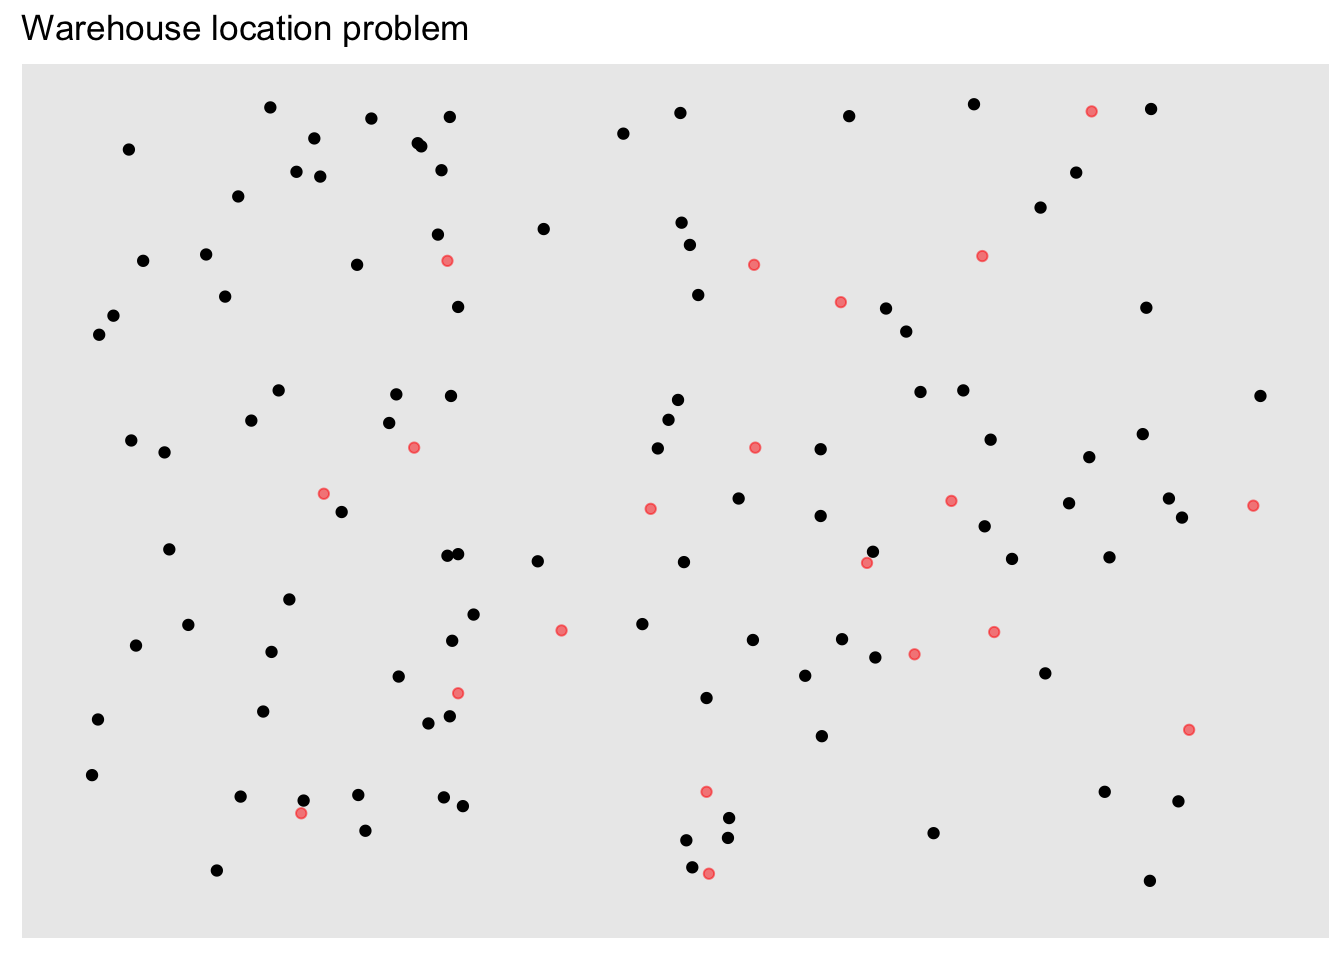
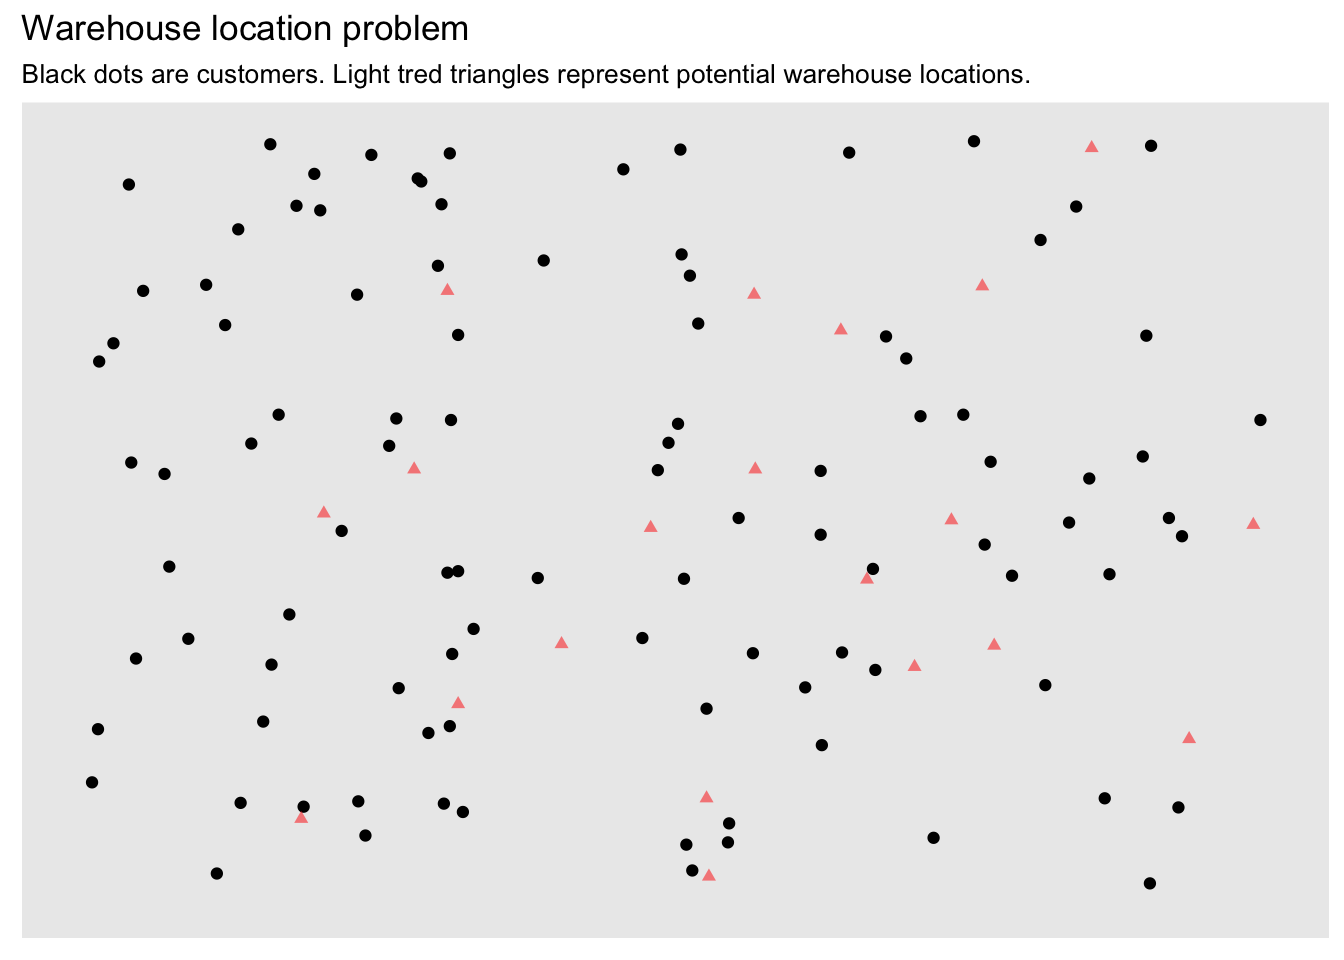
Update warehouse location article

diff --git a/docs/articles/problem-warehouse-location.html b/docs/articles/problem-warehouse-location.html
@@ -41,7 +41,7 @@
       <h1>The Warehouse Location Problem</h1>
                         <h4 class="author">Dirk Schumacher</h4>
             
-            <h4 class="date">2016-12-18</h4>
+            <h4 class="date">2016-12-19</h4>
           </div>
 
     
@@ -59,7 +59,7 @@
 <p><span class="math display">\[
 \begin{equation*}
 \begin{array}{ll@{}ll}
-\text{min}  &amp; \displaystyle\sum\limits_{i=1}^{n}\sum\limits_{j=1}^{m}transportcost_{i,j} \cdot x_{i, j} +  \sum\limits_{j=1}^{m}fixedcost_{j} \cdot y_{j}&amp; &amp;\\
+\text{min}  &amp; \displaystyle\sum\limits_{i=1}^{n}\sum\limits_{j=1}^{m}\operatorname{transportcost}_{i,j} \cdot x_{i, j} +  \sum\limits_{j=1}^{m}\operatorname{fixedcost}_{j} \cdot y_{j}&amp; &amp;\\
 \text{subject to} &amp; \displaystyle\sum\limits_{j=1}^{m}   x_{i, j} = 1  &amp; i=1 ,\ldots, n&amp;\\
                   &amp; \displaystyle x_{i, j} \leq y_j,  &amp; i=1 ,\ldots, n &amp; j=1 ,\ldots, m&amp;\\
                  &amp;                                                x_{i,j} \in \{0,1\} &amp;i=1 ,\ldots, n, &amp; j=1 ,\ldots, m \\
@@ -70,7 +70,7 @@
 </div>
 <div id="the-model-in-r" class="section level2">
 <h2 class="hasAnchor"><html><body><a href="#the-model-in-r" class="anchor"> </a></body></html>The model in R</h2>
-<p>The first thing we need is the data. In this article we will generate it randomly.</p>
+<p>The first thing we need is the data. In this article we will simply generate artificial data.</p>
 <p>We assume the <strong>customers</strong> are located in a grid with euclidian distances:</p>
 <div class="sourceCode"><pre class="sourceCode r"><code class="sourceCode r"><span class="kw">set.seed</span>(<span class="dv">1234</span>)
 grid_size &lt;-<span class="st"> </span><span class="dv">1000</span>
@@ -104,13 +104,14 @@ fixedcost &lt;-<span class="st"> </span><span class="kw">round</span>(<span clas
 <div class="sourceCode"><pre class="sourceCode r"><code class="sourceCode r"><span class="kw">library</span>(ggplot2)
 p &lt;-<span class="st"> </span><span class="kw">ggplot</span>(customer_locations, <span class="kw">aes</span>(x, y)) +<span class="st"> </span>
 <span class="st">  </span><span class="kw">geom_point</span>() +<span class="st"> </span>
-<span class="st">  </span><span class="kw">geom_point</span>(<span class="dt">data =</span> warehouse_locations, <span class="dt">color =</span> <span class="st">"red"</span>, <span class="dt">alpha =</span> <span class="fl">0.5</span>) +
+<span class="st">  </span><span class="kw">geom_point</span>(<span class="dt">data =</span> warehouse_locations, <span class="dt">color =</span> <span class="st">"red"</span>, <span class="dt">alpha =</span> <span class="fl">0.5</span>, <span class="dt">shape =</span> <span class="dv">17</span>) +
 <span class="st">  </span><span class="kw">scale_x_continuous</span>(<span class="dt">limits =</span> <span class="kw">c</span>(<span class="dv">0</span>, grid_size)) +
 <span class="st">  </span><span class="kw">scale_y_continuous</span>(<span class="dt">limits =</span> <span class="kw">c</span>(<span class="dv">0</span>, grid_size)) +
 <span class="st">  </span><span class="kw">theme</span>(<span class="dt">axis.title =</span> <span class="kw">element_blank</span>(), 
         <span class="dt">axis.ticks =</span> <span class="kw">element_blank</span>(), 
         <span class="dt">axis.text =</span> <span class="kw">element_blank</span>(), <span class="dt">panel.grid =</span> <span class="kw">element_blank</span>())
-p +<span class="st"> </span><span class="kw">ggtitle</span>(<span class="st">"Warehouse location problem"</span>)</code></pre></div>
+p +<span class="st"> </span><span class="kw">ggtitle</span>(<span class="st">"Warehouse location problem"</span>, 
+          <span class="st">"Black dots are customers. Light tred triangles represent potential warehouse locations."</span>)</code></pre></div>
 <p><img src="problem-warehouse-location_files/figure-html/unnamed-chunk-5-1.png" width="672"></p>
 <p>The model in <code>ompr</code> then looks like this:</p>
 <div class="sourceCode"><pre class="sourceCode r"><code class="sourceCode r"><span class="kw">library</span>(ompr)
@@ -163,7 +164,7 @@ result &lt;-<span class="st"> </span><span class="kw"><a href="../reference/solv
 ## +   856: mip =   3.322200000e+04 &gt;=     tree is empty   0.0% (0; 1)
 ## INTEGER OPTIMAL SOLUTION FOUND
 ## &lt;!SOLVER MSG&gt; ----</code></pre>
-<p>We solved the problem with an objective value of 3.322210^{4}.</p>
+<p>We solved the problem with an objective value of 33222.</p>
 <div class="sourceCode"><pre class="sourceCode r"><code class="sourceCode r"><span class="kw">suppressPackageStartupMessages</span>(<span class="kw">library</span>(dplyr))
 matching &lt;-<span class="st"> </span>result %&gt;%<span class="st"> </span>
 <span class="st">  </span><span class="kw"><a href="../reference/get_solution.html">get_solution</a></span>(x[i,j]) %&gt;%
@@ -180,11 +181,13 @@ plot_warehouses &lt;-<span class="st"> </span>warehouse_locations %&gt;%<span cl
 <span class="st">  </span><span class="kw">filter</span>(id %in%<span class="st"> </span><span class="kw">unique</span>(matching$j))
 p +<span class="st"> </span>
 <span class="st">  </span><span class="kw">geom_segment</span>(<span class="dt">data =</span> plot_assignment, <span class="kw">aes</span>(<span class="dt">x =</span> x.y, <span class="dt">y =</span> y.y, <span class="dt">xend =</span> x.x, <span class="dt">yend =</span> y.x)) +<span class="st"> </span>
-<span class="st">  </span><span class="kw">geom_point</span>(<span class="dt">data  =</span> plot_warehouses, <span class="dt">color =</span> <span class="st">"red"</span>, <span class="dt">size =</span> <span class="dv">3</span>) +
+<span class="st">  </span><span class="kw">geom_point</span>(<span class="dt">data  =</span> plot_warehouses, <span class="dt">color =</span> <span class="st">"red"</span>, <span class="dt">size =</span> <span class="dv">3</span>, <span class="dt">shape =</span> <span class="dv">17</span>) +
 <span class="st">  </span>ggrepel::<span class="kw">geom_label_repel</span>(<span class="dt">data  =</span> plot_warehouses, 
                             <span class="kw">aes</span>(<span class="dt">label =</span> <span class="kw">paste0</span>(<span class="st">"fixed costs:"</span>, costs, <span class="st">"; customers: "</span>, n)), 
                             <span class="dt">size =</span> <span class="dv">2</span>, <span class="dt">nudge_y =</span> <span class="dv">20</span>) +<span class="st"> </span>
-<span class="st">  </span><span class="kw">ggtitle</span>(<span class="kw">paste0</span>(<span class="st">"Cost optimal warehouse locations and customer assignment"</span>))</code></pre></div>
+<span class="st">  </span><span class="kw">ggtitle</span>(<span class="kw">paste0</span>(<span class="st">"Cost optimal warehouse locations and customer assignment"</span>),
+          <span class="st">"Big red triangles are warehouses built, light red unused warehouses. </span>
+<span class="st">Dots represent customers served by the respective warehouses."</span>)</code></pre></div>
 <p><img src="problem-warehouse-location_files/figure-html/unnamed-chunk-9-1.png" width="672"></p>
 <p>The fixed costs for setting up the 4 warehouses is:</p>
 <div class="sourceCode"><pre class="sourceCode r"><code class="sourceCode r"><span class="kw">sum</span>(fixedcost[<span class="kw">unique</span>(matching$j)])</code></pre></div>
